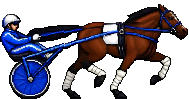
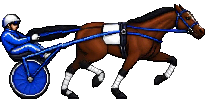
Deploy 2026-10-30 14:06

diff --git a/mockups/replay_hd2d.html b/mockups/replay_hd2d.html
@@ -660,7 +660,7 @@ const cycleLoaded = new Promise(r => { const i = new Image(); i.onload = () => {
 // Side view only for now; the angle, overhead and drive-cam sheets stay bare.
 const WRAPS_OK = !RIG && !PAINTED;                                    // the race data may not be in yet: load the sheet, pick per horse later
 let wrapImg = null, wrapMask = null;
-const wrapLoaded = WRAPS_OK ? Promise.all(["wraps12", "wraps12_mask"].map(n => new Promise(r => { const i = new Image(); i.onload = () => { if (n === "wraps12") wrapImg = i; else wrapMask = i; r(); }; i.onerror = r; i.src = P(`/mock/pixel/tack/${n}.png`); }))) : Promise.resolve();
+const wrapLoaded = WRAPS_OK ? Promise.all(["wraps12", "wraps12_mask"].map(n => new Promise(r => { const i = new Image(); i.onload = () => { if (n === "wraps12") wrapImg = i; else wrapMask = i; r(); }; i.onerror = r; i.src = P(`/mock/pixel/tack/${n}.png?v=2`); }))) : Promise.resolve();
 function wrapTint(c, hex) {
   if (!wrapMask) return c;
   if (!wrapTint.m) { const k = document.createElement("canvas"); k.width = wrapMask.width; k.height = wrapMask.height; const kg = k.getContext("2d"); kg.drawImage(wrapMask, 0, 0); wrapTint.m = kg.getImageData(0, 0, k.width, k.height).data; }

diff --git a/art/tack_layers/assemble_wraps.py b/art/tack_layers/assemble_wraps.py
@@ -11,12 +11,53 @@ orig = Image.open(os.path.join(HERE, "..", "..", "mockups", "pixel", "fe12_cycle
 
 
 def fit(i):
-    """SpriteCook's frame i on our cell: its content scaled to our content's height, left and bottom edges matched."""
-    o = orig.crop((i * W, 0, (i + 1) * W, H)); ob = o.getbbox()
+    """The better of the two fits for frame i: the horse's length matched, or the bike's size held."""
+    from anchors import drift
+    o = orig.crop((i * W, 0, (i + 1) * W, H))
+    return min((fit_length(i), fit_rig(i)), key=lambda c: drift(o, c))
+
+
+def fit_rig(i):
+    """The bike held at today's size: one scale from the wheel's width, moved onto today's wheel and saddle height."""
+    from anchors import anchors, wheel_w
+    o = orig.crop((i * W, 0, (i + 1) * W, H))
     s = Image.open(os.path.join(HERE, "sc", f"w{i:02d}.png")).convert("RGBA"); s = s.crop(s.getbbox())
-    k = (ob[3] - ob[1]) / s.height
-    s = s.resize((max(1, round(s.width * k)), ob[3] - ob[1]), Image.NEAREST)
-    cell = Image.new("RGBA", (W, H)); cell.alpha_composite(s.crop((0, 0, min(s.width, W - ob[0]), s.height)), (ob[0], ob[1]))
+    k = wheel_w(o) / wheel_w(s)
+    s = s.resize((max(1, round(s.width * k)), max(1, round(s.height * k))), Image.NEAREST)
+    (ow, op), (sw, sp) = anchors(o), anchors(s)
+    dx, dy = round(ow[0] - sw[0]), round((ow[1] + op[1]) / 2 - (sw[1] + sp[1]) / 2)
+    cell = Image.new("RGBA", (W, H)); cell.paste(s, (dx, dy), s)
+    return cell
+
+
+def fit_length(i):
+    """SpriteCook's frame i on our cell, pinned on steady points so the rig doesn't jump between frames: stretched so
+    its wheel and nose land on ours (length), its wheel-to-saddle-pad drop matched (height), then moved onto our wheel."""
+    from anchors import anchors, nose
+    o = orig.crop((i * W, 0, (i + 1) * W, H))
+    s = Image.open(os.path.join(HERE, "sc", f"w{i:02d}.png")).convert("RGBA"); s = s.crop(s.getbbox())
+    (ow, op), on = anchors(o), nose(o)
+    (sw, sp), sn = anchors(s), nose(s)
+    xs, xt = [sw[0], sp[0], sn[0]], [ow[0], op[0], on[0]]                 # length: least squares on wheel, saddle and nose together
+    mx, mt = sum(xs) / 3, sum(xt) / 3
+    kx = sum((a - mx) * (b - mt) for a, b in zip(xs, xt)) / sum((a - mx) ** 2 for a in xs)
+    ky = (op[1] - ow[1]) / (sp[1] - sw[1])
+    ky = min(max(ky, kx * .9), kx * 1.1)                                   # never squash the horse more than a little
+    s = s.resize((max(1, round(s.width * kx)), max(1, round(s.height * ky))), Image.NEAREST)
+    dx, dy = round(mt - mx * kx), round(ow[1] - sw[1] * ky)
+    cell = Image.new("RGBA", (W, H)); cell.alpha_composite(s, (dx, dy)) if dx >= 0 and dy >= 0 else cell.paste(s, (dx, dy), s)
+    return cell
+
+
+def steady(cell, i):
+    """Today's wheel and driver laid over SpriteCook's: they're the same on every horse, so they never pulse."""
+    o = orig.crop((i * W, 0, (i + 1) * W, H)); po, pc = o.load(), cell.load()
+    for y in range(H):
+        for x in range(70):
+            in_wheel = ((x - 30) ** 2 + (y - 75) ** 2) ** .5 <= 27
+            in_driver = x < 62 and y < 58
+            if in_wheel or in_driver:
+                pc[x, y] = po[x, y] if po[x, y][3] else (pc[x, y] if not in_driver else (0, 0, 0, 0))
     return cell
 
 
@@ -41,7 +82,7 @@ def tint(cell, mask, hx):
 
 
 if __name__ == "__main__":
-    cells = [fit(i) for i in range(N)]; masks = [wraps(c) for c in cells]
+    cells = [steady(fit(i), i) for i in range(N)]; masks = [wraps(c) for c in cells]
     for i, m in enumerate(masks):
         assert m.getbbox(), f"frame {i}: no wraps found"
     sheet, msheet = Image.new("RGBA", (W * N, H)), Image.new("L", (W * N, H))

diff --git a/art/tack_layers/anchors.py b/art/tack_layers/anchors.py
@@ -1,0 +1,45 @@
+"""Steady points on a runner frame: the bike wheel's centre (its blue disc) and the saddle pad's centre (the white
+cloth on the back). Used to line SpriteCook's redrawn frames up with the stock cycle, and to measure drift."""
+import math
+
+
+def anchors(im):
+    px = im.load(); W, H = im.size
+    wheel = [(x, y) for y in range(H // 2, H) for x in range(W // 3) if px[x, y][3] and px[x, y][2] > px[x, y][0] + 60 and px[x, y][2] > 120]
+    pad = [(x, y) for y in range(H // 2) for x in range(W // 3, W * 2 // 3) if px[x, y][3] and min(px[x, y][:3]) > 200]
+    if len(wheel) < 20 or len(pad) < 10:
+        return None
+    c = lambda pts: (sum(x for x, _ in pts) / len(pts), sum(y for _, y in pts) / len(pts))
+    return c(wheel), c(pad)
+
+
+def nose(im):
+    """The front of the horse: the rightmost opaque pixel in the head's rows."""
+    px = im.load(); W, H = im.size
+    for x in range(W - 1, -1, -1):
+        for y in range(H // 2):
+            if px[x, y][3]:
+                return x, y
+    return None
+
+
+def gap(a):
+    (wx, wy), (px_, py) = a
+    return math.hypot(px_ - wx, py - wy)
+
+
+def wheel_w(im):
+    """The bike wheel's width (its blue disc), the rig's size."""
+    px = im.load(); W, H = im.size
+    xs = [x for y in range(H // 2, H) for x in range(W // 3) if px[x, y][3] and px[x, y][2] > px[x, y][0] + 60 and px[x, y][2] > 120]
+    return max(xs) - min(xs) + 1 if xs else 0
+
+
+def drift(today, cell):
+    """How far a fitted frame sits off today's: wheel, saddle and nose apart, plus the rig's size off."""
+    A, B = anchors(today), anchors(cell)
+    if not B:
+        return 999
+    na, nb = nose(today), nose(cell)
+    d = sum(abs(A[k][j] - B[k][j]) for k in (0, 1) for j in (0, 1)) + abs(na[0] - nb[0]) + abs(na[1] - nb[1])
+    return d + 40 * abs(wheel_w(cell) / wheel_w(today) - 1)

diff --git a/tack_art.py b/tack_art.py
@@ -87,7 +87,7 @@ def paint(pieces, cols, c1, c2):
 def render(pieces, cols, c1, c2):
     """The model's PNG at 3x, cached like the emblems; returns its path under /mock."""
     pieces = tuple(p for p in PIECES if p in pieces)
-    key = "tack|" + ",".join(pieces) + "|" + ",".join(f"{k}{v}" for k, v in sorted(cols.items())) + f"|{c1}|{c2}|v2"
+    key = "tack|" + ",".join(pieces) + "|" + ",".join(f"{k}{v}" for k, v in sorted(cols.items())) + f"|{c1}|{c2}|v3"
     name = hashlib.md5(key.encode()).hexdigest()[:12] + ".png"
     path = os.path.join(CACHE, name)
     if not os.path.exists(path):
